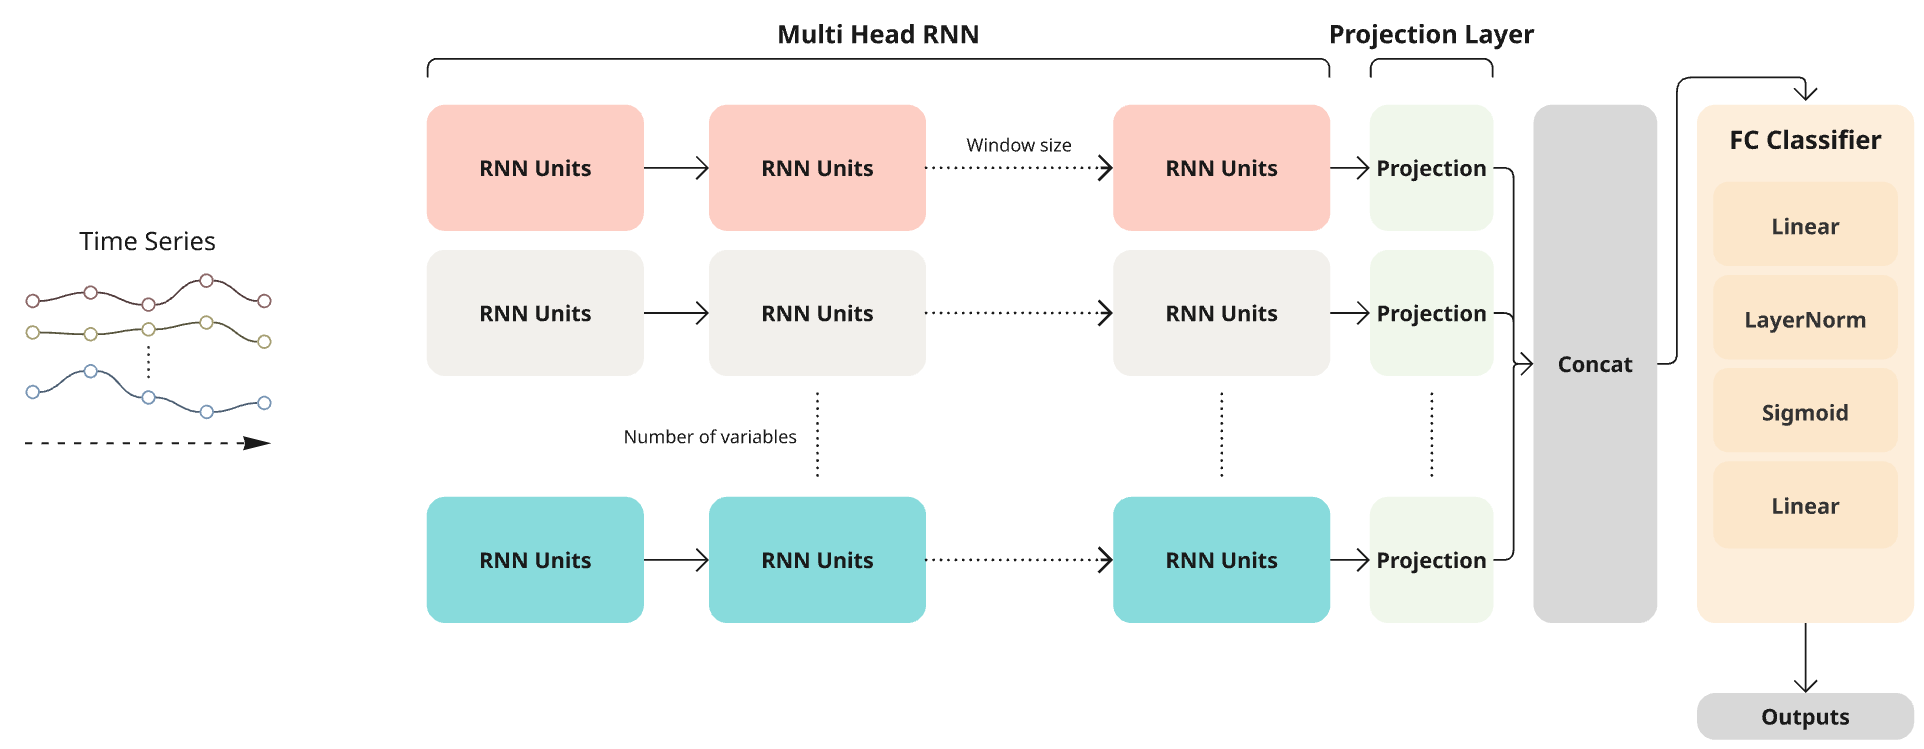
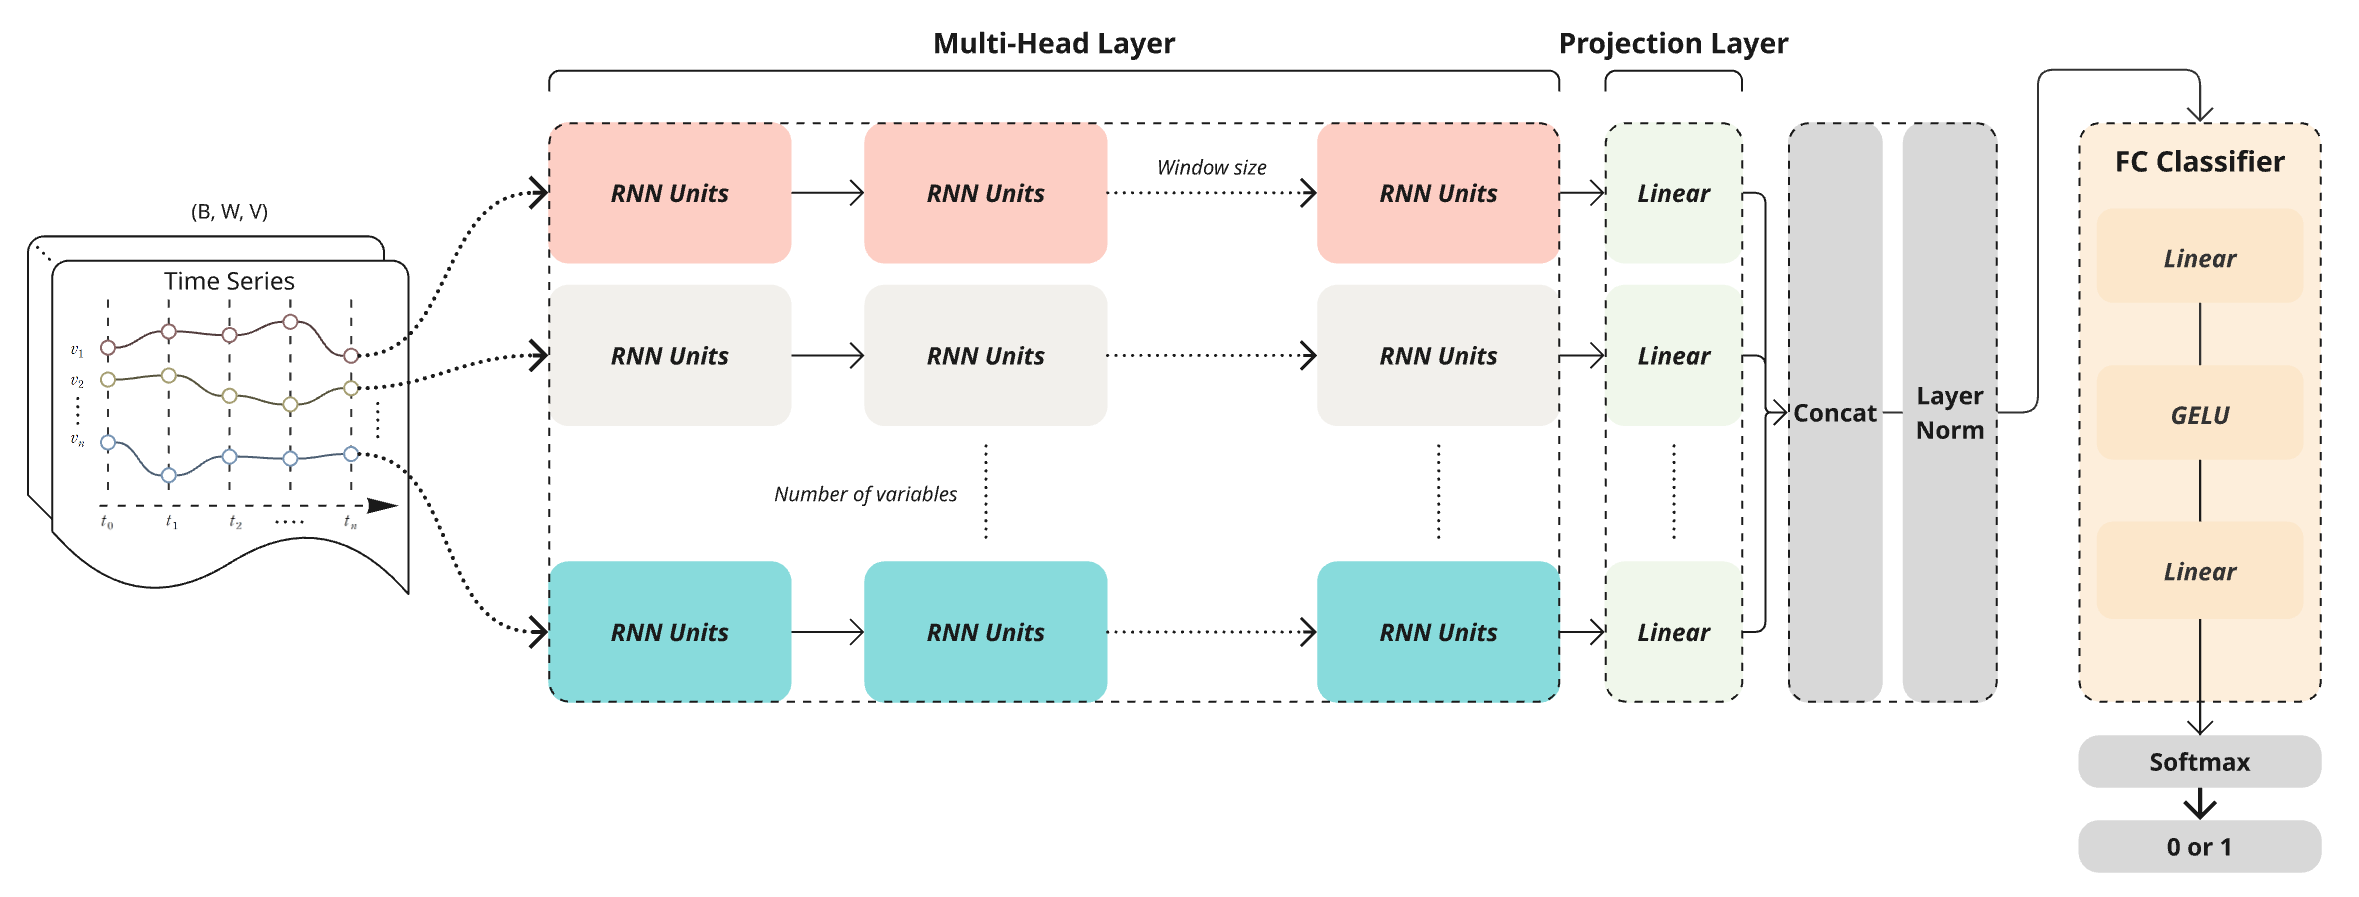
no message

diff --git a/model/model.py b/model/model.py
@@ -7,13 +7,12 @@ from torch import Tensor
 
 
 class MultiHead(nn.Module):
-    proj_dim: int = 1
-
     def __init__(
             self,
             num_variables: int,
             rnn_hidden_size: int,
             fc_hidden_size: int,
+            proj_dim: int,
             num_classes: int,
             rnn_type: str
     ) -> None:
@@ -29,14 +28,12 @@ class MultiHead(nn.Module):
         ])
 
         # Projection layer
-        self.proj = nn.ModuleList([nn.Linear(rnn_hidden_size, self.proj_dim) for _ in range(num_variables)])
-        for layer in self.proj:
-            nn.init.xavier_uniform_(layer.weight)
-            nn.init.zeros_(layer.bias)
+        self.projection = nn.ModuleList([nn.Linear(rnn_hidden_size, proj_dim) for _ in range(num_variables)])
+        self.layer_norm = nn.LayerNorm(num_variables * proj_dim)
 
         # MLP Classifier
         self.fc = Classifier(
-            input_size=num_variables,
+            input_size=num_variables * proj_dim,
             hidden_size=fc_hidden_size,
             num_classes=num_classes
         )
@@ -44,16 +41,22 @@ class MultiHead(nn.Module):
         # Initialize RNN module weights
         self.apply(init_weights)
 
+        # Initialize projection weights
+        for proj in self.projection:
+            nn.init.xavier_uniform_(proj.weight)
+            nn.init.zeros_(proj.bias)
+
     def forward(self, x: torch.Tensor) -> torch.Tensor:
         outputs: List[Tensor] = []
 
-        for rnn, proj, var in zip(self.rnn, self.proj, x):
+        for rnn, proj, var in zip(self.rnn, self.projection, x):
             seq, _ = rnn(var)
-            proj = proj(seq[:, -1, :])
-            outputs.append(proj)
+            proj_ = proj(seq[:, -1, :])
+            outputs.append(proj_)
 
         concat = torch.cat(outputs, dim=1)
-        return self.fc(concat)
+        norm = self.layer_norm(concat)
+        return self.fc(norm)
 
 
 class SingleHead(nn.Module):
@@ -62,6 +65,7 @@ class SingleHead(nn.Module):
             num_variables: int,
             rnn_hidden_size: int,
             fc_hidden_size: int,
+            proj_dim: int,
             num_classes: int,
             rnn_type: str
     ) -> None:
@@ -74,23 +78,27 @@ class SingleHead(nn.Module):
         )
 
         # Projection layer
-        self.proj = nn.Linear(rnn_hidden_size, num_variables)
-        nn.init.xavier_uniform_(self.proj.weight)
-        nn.init.zeros_(self.proj.bias)
+        self.projection = nn.Linear(rnn_hidden_size, num_variables * proj_dim)
+        self.layer_norm = nn.LayerNorm(num_variables * proj_dim)
 
         # MLP Classifier
         self.fc = Classifier(
-            input_size=num_variables,
+            input_size=num_variables * proj_dim,
             hidden_size=fc_hidden_size,
             num_classes=num_classes
         )
 
-        # Initialize weights
+        # Initialize RNN module weights
         self.apply(init_weights)
+
+        # Initialize projection weights
+        nn.init.xavier_uniform_(self.projection.weight)
+        nn.init.zeros_(self.projection.bias)
 
     def forward(self, x: torch.Tensor) -> torch.Tensor:
         x = torch.cat(x, dim=-1) # Last dimension concatenation
         seq, _ = self.rnn(x)
-        proj = self.proj(seq[:, -1, :])
-        return self.fc(proj)
+        proj = self.projection(seq[:, -1, :])
+        norm = self.layer_norm(proj)
+        return self.fc(norm)
 

diff --git a/main.py b/main.py
@@ -48,6 +48,7 @@ MODEL = _head[config['head']]
 TYPE = config['type']
 RNN_HIDDEN_SIZE = config['rnn_hidden_size']
 FC_HIDDEN_SIZE = config['fc_hidden_size']
+PROJECTION_DIM = config['projection_dim']
 NUM_CLASSES = config['num_classes']
 LR = config['lr']
 EPOCHS = config['epochs']
@@ -164,16 +165,17 @@ if __name__ == '__main__':
             print(f"Using device: {device}")
 
             model = MODEL(
-                rnn_hidden_size=RNN_HIDDEN_SIZE,
                 num_variables=len(variables),
+                rnn_hidden_size=RNN_HIDDEN_SIZE,
                 fc_hidden_size=FC_HIDDEN_SIZE,
+                proj_dim=PROJECTION_DIM,
                 num_classes=NUM_CLASSES,
                 rnn_type=TYPE
             ).to(device)
 
             # Model summary
             print(f"RNN Parameters: {get_parameters(model.rnn)}")
-            print(f"Projection Parameters: {get_parameters(model.proj)}")
+            print(f"Projection Parameters: {get_parameters(model.projection)}")
             print(f"FC Parameters: {get_parameters(model.fc)}")
             print(f"Total Parameters: {get_parameters(model)}")
             
@@ -228,3 +230,4 @@ if __name__ == '__main__':
                 train_time=train_time,
                 csv_path=csv_path + "_test.csv"
             )
+

diff --git a/model/module.py b/model/module.py
@@ -4,8 +4,7 @@ from torch import Tensor
 
 
 class Classifier(nn.Module):
-    normalize: Type[nn.Module] = nn.LayerNorm  # nn.BatchNorm1d, ...
-    activation: Type[nn.Module] = nn.Sigmoid   # nn.ReLU, nn.GELU, nn.Tanh, ...
+    activation: Type[nn.Module] = nn.GELU  # Sigmoid, Tanh, ReLU, GELU, ... etc.
 
     def __init__(
             self,
@@ -19,7 +18,6 @@ class Classifier(nn.Module):
         # Sequential layer
         self.layer = nn.Sequential(
             nn.Linear(input_size, hidden_size, bias),
-            self.normalize(hidden_size),
             self.activation(),
             nn.Dropout(dropout),
             nn.Linear(hidden_size, num_classes, bias),

diff --git a/model/utils.py b/model/utils.py
@@ -37,10 +37,9 @@ def get_rnn_layer(
             # ode_unfolds=1,
 
             # CfC specific parameters
-            # backbone_units=16,
-            # backbone_layers=1,
-            # backbone_dropout=0.0,
-            # activation='tanh'
+            backbone_units=16,
+            backbone_layers=1,
+            activation='tanh'
         )
     return rnn
 
